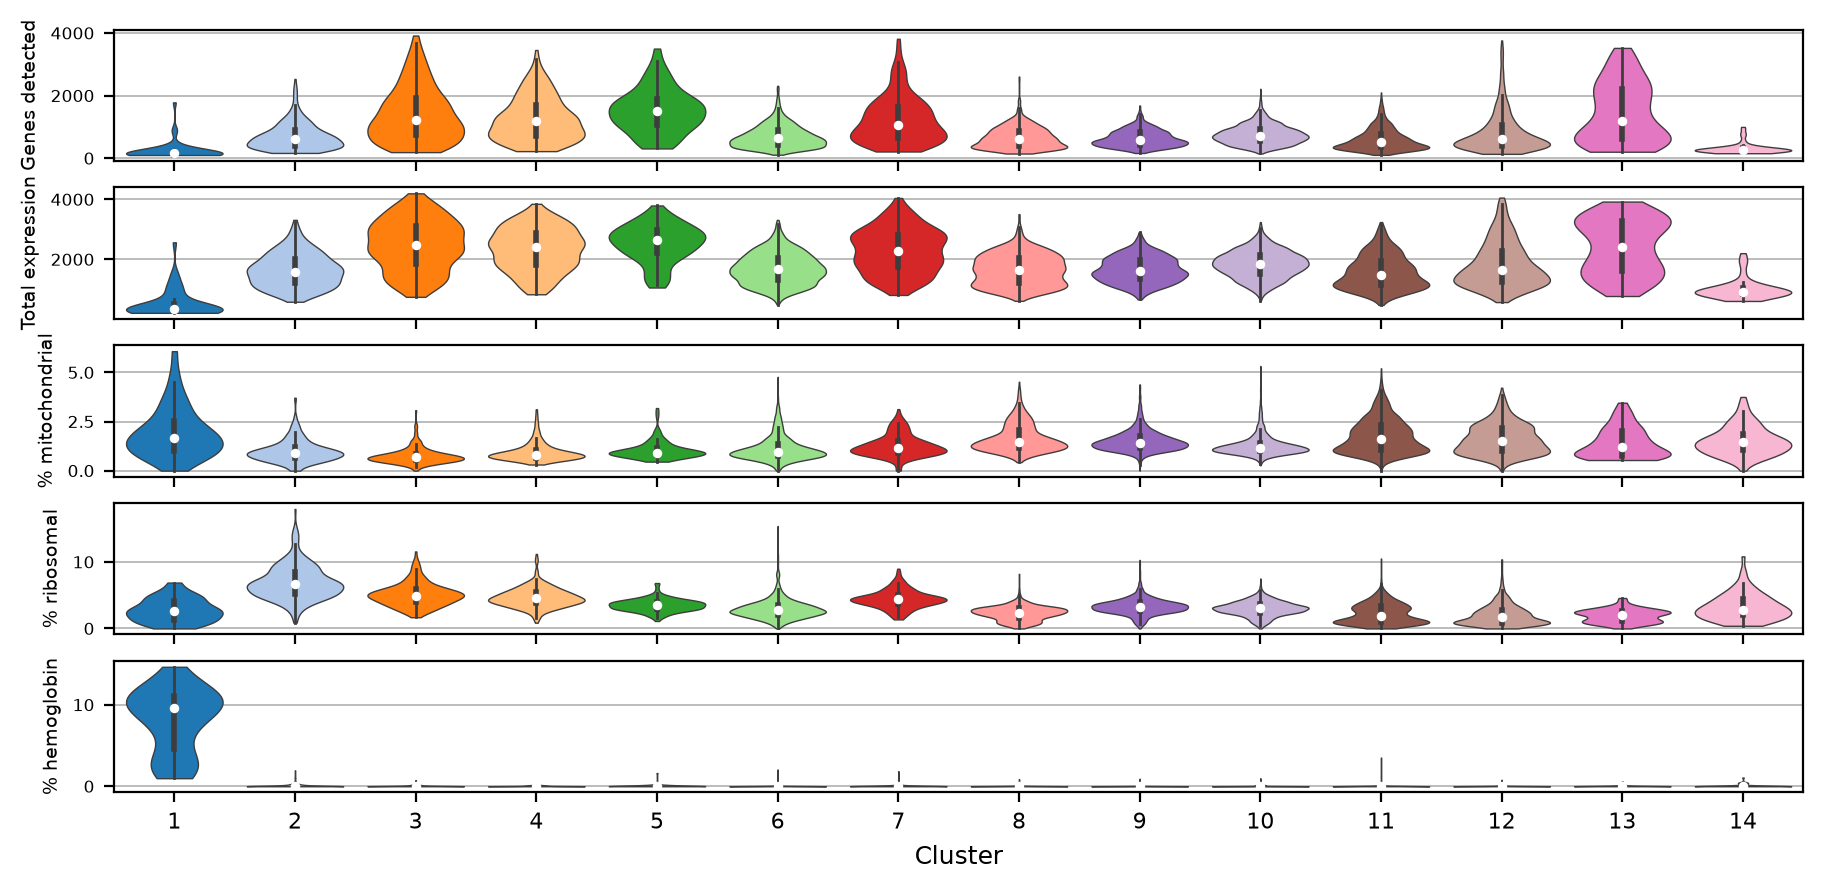
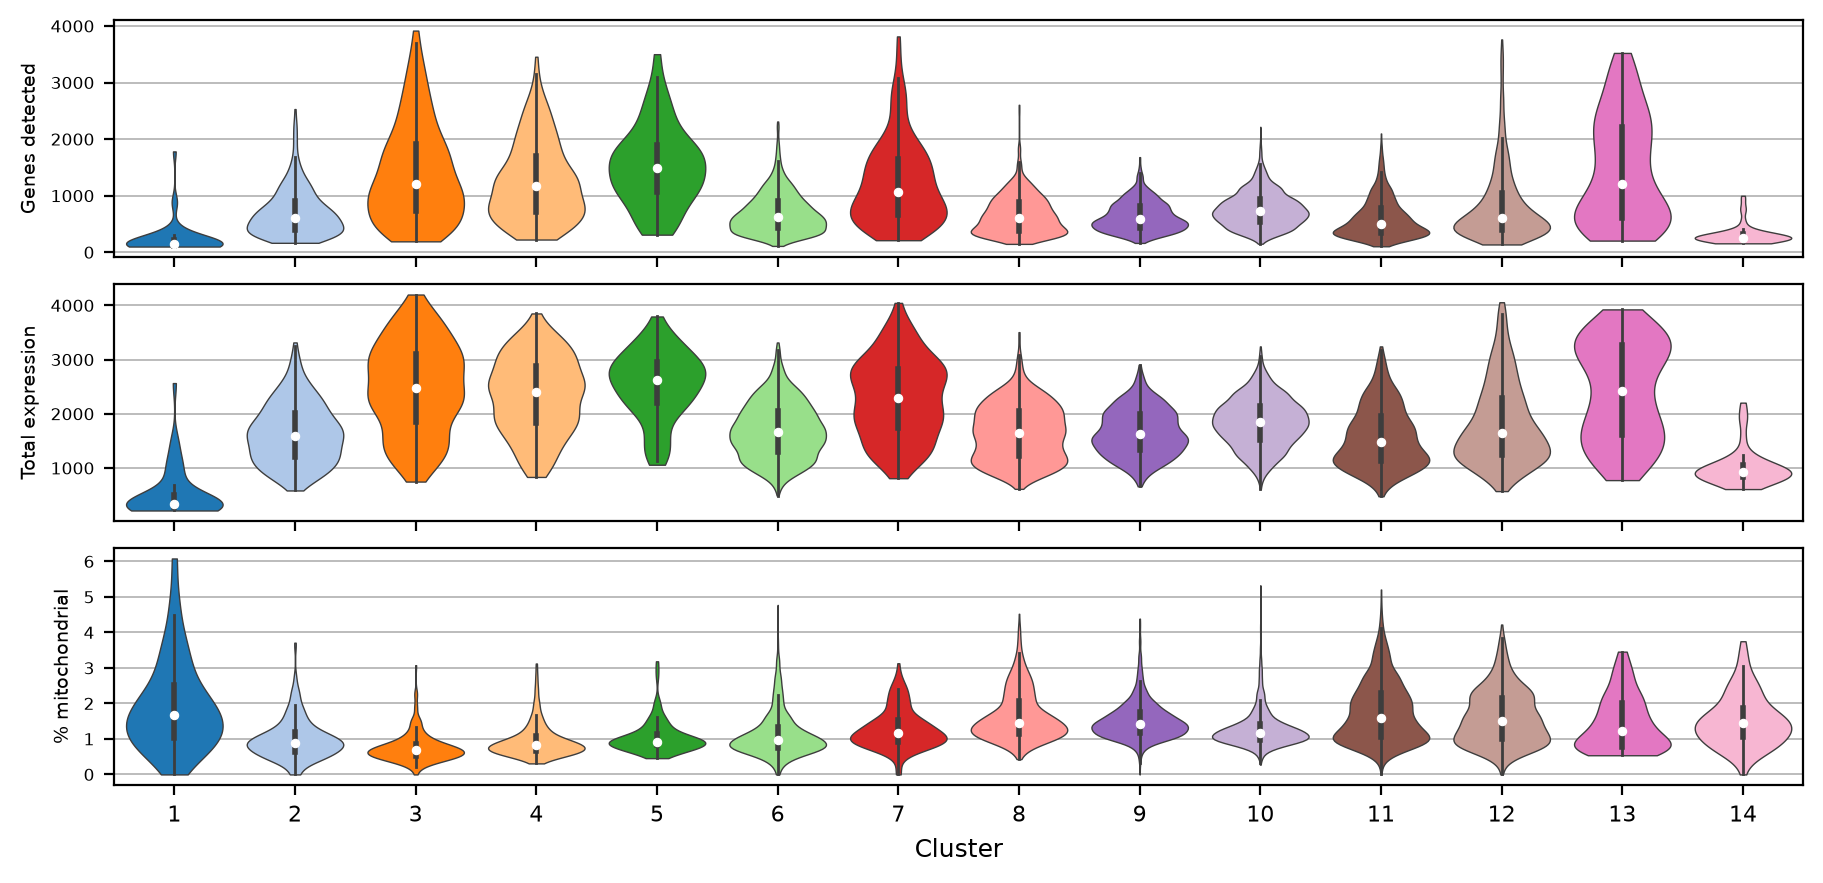
Keep the by-cluster QC violins to the metrics that carry them
Split across fourteen clusters the ribosomal fraction is a flat line and the
hemoglobin fraction a row of spikes, and five rows in one figure left each of
them too short to read. The three that remain get the height instead.

Both are still on the batch-level violins and on the slides that inspect one
cluster at a time, where the hemoglobin fraction is the whole argument for
calling one of them low quality.

diff --git a/reports/txn1-expression-retina.md b/reports/txn1-expression-retina.md
@@ -610,9 +610,10 @@ id="qc-violin-wr-joyal" />
 
 ## QC metrics by cluster
 
-The same five metrics again, one per row, with the cells split along the
-x axis by cluster. Each violin takes its colour from the cluster palette
-the UMAP above uses, so a cluster is the same colour in both figures.
+Three of those metrics again, one per row, with the cells split along
+the x axis by cluster. Each violin takes its colour from the cluster
+palette the UMAP above uses, so a cluster is the same colour in both
+figures.
 
 <details>
 <summary>Code</summary>
@@ -622,9 +623,18 @@ the UMAP above uses, so a cluster is the same colour in both figures.
 # explicitly — otherwise a cluster changes color between the UMAP and these violins
 cluster_palette = dict(zip(wr_joyal.obs[dendrogram_key].cat.categories, wr_joyal.uns[f"{dendrogram_key}_colors"]))
 
-fig, axes = plt.subplots(len(qc_metrics), 1, squeeze=False, sharex=True, figsize=(9, 4.3),
+# the ribosomal and hemoglobin fractions are dropped here. Split across every cluster they are
+# a flat line and a row of spikes, and the three that are left carry the figure. Both are still
+# on the batch-level violins above, and on the slides that inspect one cluster at a time — the
+# hemoglobin fraction is the whole story on one of them.
+cluster_qc_metrics = {
+    qc_key: qc_label for qc_key, qc_label in qc_metrics.items()
+    if qc_key not in ("pct_log1p_ribo", "pct_log1p_hb")
+}
+
+fig, axes = plt.subplots(len(cluster_qc_metrics), 1, squeeze=False, sharex=True, figsize=(9, 4.3),
                          constrained_layout=True)
-for ax, (qc_key, qc_label) in zip(axes.flat, qc_metrics.items()):
+for ax, (qc_key, qc_label) in zip(axes.flat, cluster_qc_metrics.items()):
     # dodge=False because hue repeats x: left on, seaborn gives each of the 21 clusters its
     # own sub-slot and every violin is drawn a twentieth of its slot wide, off its tick
     sns.violinplot(data=qc_df, x=dendrogram_key, y=qc_key, hue=dendrogram_key, palette=cluster_palette,
@@ -2052,9 +2062,10 @@ id="qc-violin-cd73ft-joyal" />
 
 ## QC metrics by cluster
 
-The same five metrics again, one per row, with the cells split along the
-x axis by cluster. Each violin takes its colour from the cluster palette
-the UMAP above uses, so a cluster is the same colour in both figures.
+Three of those metrics again, one per row, with the cells split along
+the x axis by cluster. Each violin takes its colour from the cluster
+palette the UMAP above uses, so a cluster is the same colour in both
+figures.
 
 <details>
 <summary>Code</summary>
@@ -2064,9 +2075,18 @@ the UMAP above uses, so a cluster is the same colour in both figures.
 # explicitly — otherwise a cluster changes color between the UMAP and these violins
 cluster_palette = dict(zip(cd73ft_joyal.obs[dendrogram_key].cat.categories, cd73ft_joyal.uns[f"{dendrogram_key}_colors"]))
 
-fig, axes = plt.subplots(len(qc_metrics), 1, squeeze=False, sharex=True, figsize=(9, 4.3),
+# the ribosomal and hemoglobin fractions are dropped here. Split across every cluster they are
+# a flat line and a row of spikes, and the three that are left carry the figure. Both are still
+# on the batch-level violins above, and on the slides that inspect one cluster at a time — the
+# hemoglobin fraction is the whole story on one of them.
+cluster_qc_metrics = {
+    qc_key: qc_label for qc_key, qc_label in qc_metrics.items()
+    if qc_key not in ("pct_log1p_ribo", "pct_log1p_hb")
+}
+
+fig, axes = plt.subplots(len(cluster_qc_metrics), 1, squeeze=False, sharex=True, figsize=(9, 4.3),
                          constrained_layout=True)
-for ax, (qc_key, qc_label) in zip(axes.flat, qc_metrics.items()):
+for ax, (qc_key, qc_label) in zip(axes.flat, cluster_qc_metrics.items()):
     # dodge=False because hue repeats x: left on, seaborn gives each of the 21 clusters its
     # own sub-slot and every violin is drawn a twentieth of its slot wide, off its tick
     sns.violinplot(data=qc_df, x=dendrogram_key, y=qc_key, hue=dendrogram_key, palette=cluster_palette,
